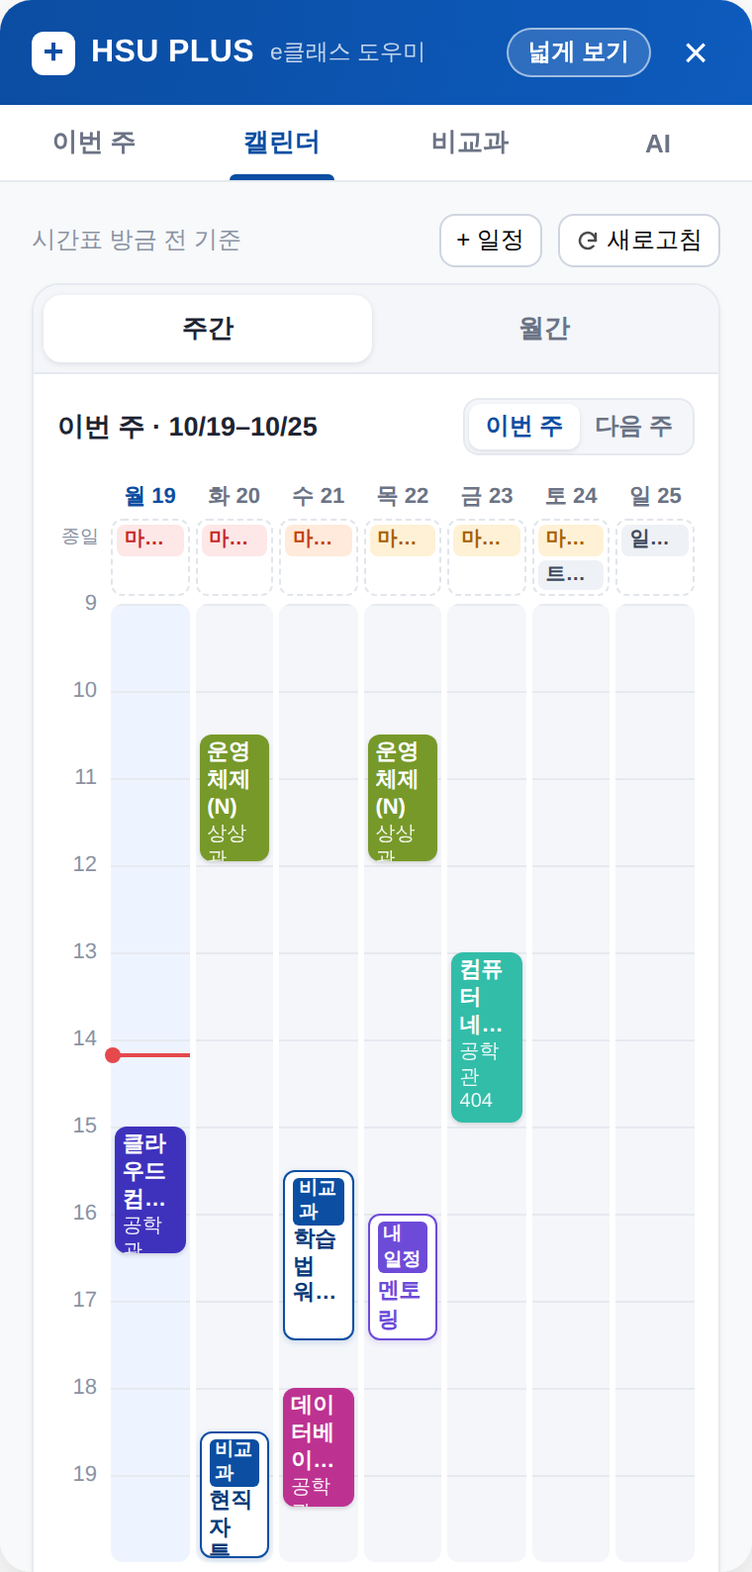
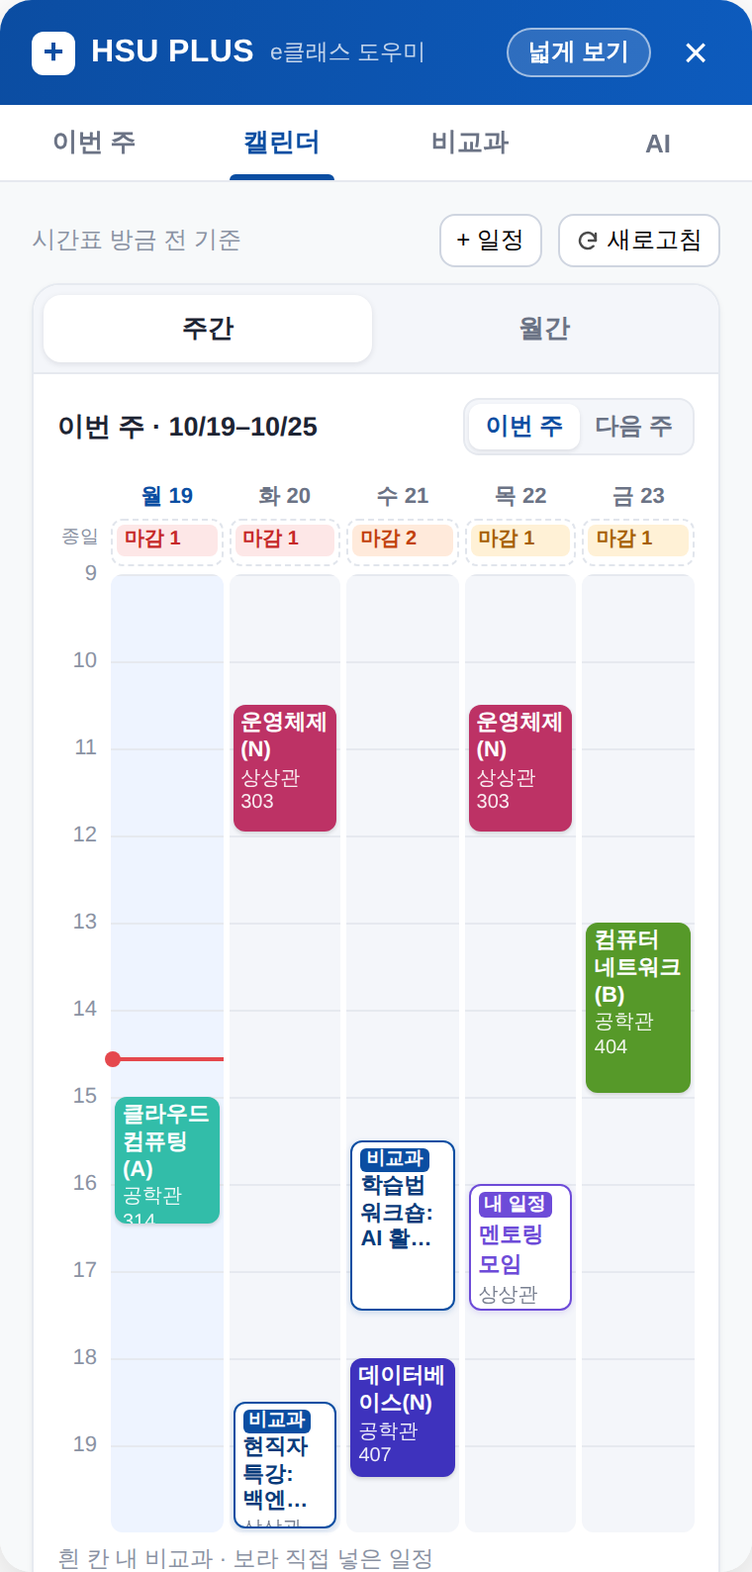
매주 반복 일정(알바·학원), 주말 자동 펼침, 내 시간표 겹침, 비교과 상세 일정 링크
- 일정 넣기 "매주 반복": 요일·시각·기간, 주간 캘린더에 수업처럼 표시
- 토·일에 반복 일정이 있으면 주간 캘린더 토·일 기본 펼침 (학사일정 기간은 자동 펼침에서 제외)
- 신청 탭 겹침 = 수업 + 매주 반복 일정 ("내 시간표"), AI "비는 시간"도 반영
- .ics·구글 캘린더에 반복 규칙
- 비교과 카드·그날 목록에 "상세 일정 확인" 링크, 자동 분류 안내 문구
- 0.3.1

diff --git a/content/main.js b/content/main.js
@@ -330,6 +330,9 @@
    * "2026-2학기 집단상담 프로그램" → "집단상담", "[재맞고]26-2학기 AI 실무…" → "AI 실무…", "2026학년도 2학기 학습법 워크숍" → "학습법 워크숍"
    * 학기·연도 머리말, 맨 앞 [머리표], 끝의 "프로그램"만 뗀다. 원래 이름은 마우스를 올리거나 그날 목록에서 보인다.
    */
+  // 비교과 일정은 자동 분류라 완벽하지 않음 → 학교 상세 화면 바로가기 (10/20 사용자)
+  const detailLink = (url) =>
+    url ? el("a", { class: "detail-link", href: url, target: "_blank", rel: "noopener", title: "일정 분류는 자동이라 틀릴 수 있어요. 정확한 일정은 학교 상세 화면에서 확인하세요.", text: "상세 일정 확인 ↗" }) : null;
   function shortTitle(t) {
     const orig = String(t || "").trim();
     let s = orig.replace(/^(\[[^\]]{1,12}\]\s*)+/, "");
@@ -392,8 +395,33 @@
   }
   const eventList = () =>
     Object.entries(events)
-      .map(([id, ev]) => ({ id, ev, tm: evTime(ev) }))
+      .map(([id, ev]) => ({ id, ev, tm: ev.w ? null : evTime(ev) }))
       .filter((x) => x.tm);
+  // 매주 반복 일정 (알바·학원 등, 10/20): { t, w: [요일 0=일…6=토], s, e, from, until, p, n }
+  const fixedList = () => Object.entries(events).filter(([, ev]) => Array.isArray(ev.w) && ev.w.length && ev.s && ev.e).map(([id, ev]) => ({ id, ev }));
+  /** from~to 안의 매주 반복 일정 회차들 */
+  function fixedOccurrences(from, to) {
+    const out = [];
+    for (const { id, ev } of fixedList()) {
+      for (let d = dayStart(from); d < to; d = addDays(d, 1)) {
+        const key = ymd(d);
+        if (!ev.w.includes(d.getDay()) || (ev.from && key < ev.from) || (ev.until && key > ev.until)) continue;
+        out.push({ kind: "fix", id, ev, title: ev.t, place: ev.p, start: fromYmd(key, ev.s), end: fromYmd(key, ev.e), allDay: false });
+      }
+    }
+    return out;
+  }
+  const BYDAY = ["SU", "MO", "TU", "WE", "TH", "FR", "SA"];
+  /** 매주 반복 → 캘린더 반복 규칙 (구글 링크·.ics) */
+  const fixedRule = (ev) => `FREQ=WEEKLY;BYDAY=${ev.w.map((d) => BYDAY[d]).join(",")}${ev.until ? `;UNTIL=${ev.until.replace(/-/g, "")}T235959` : ""}`;
+  /** 지금 이어지고 있는 매주 반복 일정 → 수업처럼 "매주 이 요일 이 시각"으로 (비교과 겹침 확인용) */
+  function fixedSlots(now = new Date()) {
+    const today = ymd(now);
+    const m = (t) => Number(t.slice(0, 2)) * 60 + Number(t.slice(3, 5));
+    return fixedList()
+      .filter(({ ev }) => !ev.until || ev.until >= today)
+      .flatMap(({ ev }) => ev.w.map((day) => ({ day, from: m(ev.s), to: m(ev.e), name: ev.t })));
+  }
 
   // ---- 내 비교과 회차 (날짜·시각이 정해진 것 + 매주 회차 + 며칠짜리) ----
   // 매주 회차(예: 11/3 10:00 ~ 11/24 13:00, "3시간*4회")는 공개 상세 화면 안내문까지 보고 판단한다 (core/classify.js)
@@ -459,7 +487,7 @@
 
   /** from~to의 캘린더 항목. kind: prog / ev / due (수업은 주간에서 따로) */
   function calItems(from, to) {
-    const out = mySessions(from, to);
+    const out = [...mySessions(from, to), ...fixedOccurrences(from, to)];
     for (const it of deadlines()) {
       const day = dueDay(it.due); // 0시 마감은 전날 24:00
       if (day >= from && day < to) out.push({ kind: "due", it, title: it.title, sub: [DUE_NOUN[it.type], it.course].filter(Boolean).join(" · "), start: dayStart(day), end: dayStart(day), allDay: true, url: it.url, due: it.due });
@@ -548,7 +576,7 @@
       el("ul", { class: "wl-tabs" }, [
         tip("이번 주", "남은 강의·과제·퀴즈·비교과를 마감 순으로. 출석이 어려운 강의도 미리 알려줘요"),
         tip("캘린더", "시간표 + 비교과 + 마감을 주간·월간으로. 톡방 공지 일정은 직접 넣기"),
-        tip("비교과", "신청할 만한 것(수업과 안 겹치는 것만 보기), 졸업 포인트, 안 낸 설문"),
+        tip("비교과", "신청할 만한 것(수업·알바와 안 겹치는 것만 보기), 졸업 포인트, 안 낸 설문"),
         tip("AI", "\"오늘 뭐 해야 돼?\"처럼 물어보면 실제 항목으로 답해요"),
       ]),
       el("p", { class: "wl-note", text: "학생이 만든 프로토타입이에요(학교 공식 서비스 아님). 학교 사이트는 읽기만 하고 신청·제출은 하지 않아요. 성적·연락처는 읽지 않아요." }),
@@ -636,7 +664,7 @@
 
   function openEventForm(init = {}) {
     const today = ymd(new Date());
-    evDraft = { mode: "time", t: "", d: calDay || today, m: (calDay || today).slice(0, 7), s: "10:00", e: "11:00", p: "", n: "", g: null, ...init };
+    evDraft = { mode: "time", t: "", d: calDay || today, m: (calDay || today).slice(0, 7), s: "10:00", e: "11:00", p: "", n: "", g: null, w: [], from: today, until: "", ...init };
     if (current !== "calendar") {
       current = "calendar";
       renderTabs();
@@ -647,7 +675,8 @@
   function editEvent(id) {
     const ev = events[id];
     if (!ev) return;
-    openEventForm({ id, mode: ev.s ? "time" : ev.d ? "date" : "month", t: ev.t, d: ev.d || ymd(new Date()), m: ev.m || (ev.d || ymd(new Date())).slice(0, 7), s: ev.s || "10:00", e: ev.e || "", p: ev.p || "", n: ev.n || "", g: ev.g || null });
+    const today = ymd(new Date());
+    openEventForm({ id, mode: ev.w ? "weekly" : ev.s ? "time" : ev.d ? "date" : "month", t: ev.t, d: ev.d || today, m: ev.m || (ev.d || today).slice(0, 7), s: ev.s || "10:00", e: ev.e || "", p: ev.p || "", n: ev.n || "", g: ev.g || null, w: ev.w ? [...ev.w] : [], from: ev.from || today, until: ev.until || "" });
   }
 
   function eventForm() {
@@ -672,6 +701,28 @@
     const save = () => {
       const t = (f.t || "").trim().slice(0, 60);
       if (!t) return (err.textContent = "제목을 적어 주세요.");
+      if (f.mode === "weekly") {
+        // 매주 반복 (알바·학원 등 고정 일정)
+        if (!f.w.length) return (err.textContent = "요일을 하나 이상 골라 주세요.");
+        if (!/^\d{2}:\d{2}$/.test(f.s || "") || !/^\d{2}:\d{2}$/.test(f.e || "")) return (err.textContent = "시작·끝 시각을 골라 주세요.");
+        if (f.e <= f.s) return (err.textContent = "끝 시각이 시작보다 늦어야 해요.");
+        if (f.until && f.until < (f.from || "")) return (err.textContent = "끝나는 날이 시작하는 날보다 늦어야 해요.");
+        saveEvent(f.id || newId(), {
+          t,
+          w: [...f.w].sort(),
+          s: f.s,
+          e: f.e,
+          from: /^\d{4}-\d{2}-\d{2}$/.test(f.from || "") ? f.from : null,
+          until: /^\d{4}-\d{2}-\d{2}$/.test(f.until || "") ? f.until : null,
+          p: (f.p || "").trim().slice(0, 40) || null,
+          n: (f.n || "").trim().slice(0, 120) || null,
+          at: events[f.id]?.at || Date.now(),
+        });
+        evDraft = null;
+        if (f.w.some((d) => d === 0 || d === 6)) calWeekendOpen = null; // 주말 고정 일정이면 자동 펼침이 다시 판단하게
+        calMode = "week";
+        return renderCalendar();
+      }
       if (f.mode !== "month" && !/^\d{4}-\d{2}-\d{2}$/.test(f.d || "")) return (err.textContent = "날짜를 골라 주세요.");
       if (f.mode === "month" && !/^\d{4}-\d{2}$/.test(f.m || "")) return (err.textContent = "달을 골라 주세요.");
       if (f.mode === "time" && !/^\d{2}:\d{2}$/.test(f.s || "")) return (err.textContent = "시작 시각을 골라 주세요.");
@@ -694,12 +745,37 @@
     };
     return el("div", { class: "ev-form" }, [
       el("div", { class: "ev-head" }, [el("b", { text: f.id ? "일정 고치기" : "일정 직접 넣기" }), el("span", { class: "ev-hint", text: "이 계정의 크롬 어디서나 보여요" })]),
-      field("제목", inp("t", { class: "ev-input ev-title", maxlength: "60", placeholder: "예: 진로멘토링 2회차" })),
-      el("div", { class: "ev-modes" }, [el("div", { class: "seg-mini-wrap" }, [modeBtn("time", "날짜·시각"), modeBtn("date", "날짜만"), modeBtn("month", "대략 (그 달 중)")])]),
-      f.mode === "month"
-        ? field("달", inp("m", { type: "month" }))
-        : field("날짜", inp("d", { type: "date" })),
-      f.mode === "time" ? el("div", { class: "ev-row" }, [field("시작", inp("s", { type: "time" })), field("끝 (선택)", inp("e", { type: "time" }))]) : null,
+      field("제목", inp("t", { class: "ev-input ev-title", maxlength: "60", placeholder: f.mode === "weekly" ? "예: 카페 알바, 영어 학원" : "예: 진로멘토링 2회차" })),
+      el("div", { class: "ev-modes" }, [el("div", { class: "seg-mini-wrap" }, [modeBtn("time", "날짜·시각"), modeBtn("date", "날짜만"), modeBtn("month", "대략 (그 달 중)"), modeBtn("weekly", "매주 반복")])]),
+      ...(f.mode === "weekly"
+        ? [
+            el("p", { class: "ev-sub", text: "알바·학원처럼 매주 같은 시간에 있는 일정. 주간 캘린더에 수업처럼 보이고, 비교과를 고를 때 겹치는지도 함께 봐요." }),
+            el("div", { class: "ev-field" }, [
+              el("span", { text: "요일" }),
+              el(
+                "div",
+                { class: "wd-pick" },
+                [1, 2, 3, 4, 5, 6, 0].map((d) =>
+                  el("button", {
+                    type: "button",
+                    class: f.w.includes(d) ? "wd on" : "wd",
+                    "aria-pressed": String(f.w.includes(d)),
+                    text: DAY[d],
+                    onclick: () => {
+                      f.w = f.w.includes(d) ? f.w.filter((x) => x !== d) : [...f.w, d];
+                      renderCalendar();
+                    },
+                  })
+                )
+              ),
+            ]),
+            el("div", { class: "ev-row" }, [field("시작", inp("s", { type: "time" })), field("끝", inp("e", { type: "time" }))]),
+            el("div", { class: "ev-row" }, [field("언제부터", inp("from", { type: "date" })), field("언제까지 (선택)", inp("until", { type: "date" }))]),
+          ]
+        : [
+            f.mode === "month" ? field("달", inp("m", { type: "month" })) : field("날짜", inp("d", { type: "date" })),
+            f.mode === "time" ? el("div", { class: "ev-row" }, [field("시작", inp("s", { type: "time" })), field("끝 (선택)", inp("e", { type: "time" }))]) : null,
+          ]),
       field("장소 (선택)", inp("p", { maxlength: "40", placeholder: "예: 상상관 B101, 온라인" })),
       field("메모 (선택)", inp("n", { maxlength: "120", placeholder: "예: 톡방 공지, 준비물" })),
       err,
@@ -736,18 +812,23 @@
     if (!CAL) return null;
     const title = x.kind === "due" ? `[마감] ${x.title}` : x.kind === "prog" ? `${x.title}${x.session ? ` - ${x.session}` : ""}` : x.title;
     const ev = x.kind === "due" ? { title, start: new Date(new Date(x.due).getTime() - 30 * 60000), end: new Date(x.due), url: x.url } : { title, start: x.start, end: x.end, allDay: x.allDay, place: x.place, url: x.url, memo: x.ev?.n };
+    if (x.kind === "fix") ev.rrule = fixedRule(x.ev);
     return el("a", { class: "gcal", href: CAL.googleLink(ev), target: "_blank", rel: "noopener", title: "구글 캘린더에 이 일정을 미리 채운 화면이 열려요 (저장은 직접)", text: "구글 캘린더에 추가" });
   }
   function dayRow(x) {
     const when = x.allDay ? (sameDay(x.start, x.end) ? "종일" : `${dayLabel(x.start)}~${dayLabel(x.end)}`) : `${hm(x.start)}–${hm(x.end)}`;
-    const kindLabel = { prog: x.weekly ? "비교과 · 매주" : "비교과", ev: "내 일정", due: "마감", class: "수업", acad: "학사" }[x.kind];
+    const kindLabel = { prog: x.weekly ? "비교과 · 매주" : "비교과", ev: "내 일정", fix: "매주", due: "마감", class: "수업", acad: "학사" }[x.kind];
     const sub = x.kind === "due" ? `${x.sub} · ${dueText(x.due)}` : [x.session, x.place, x.kind === "ev" ? x.ev?.n : null].filter(Boolean).join(" · ");
     return el("div", { class: `day-row k-${x.kind}` }, [
       el("span", { class: "dr-when", text: x.kind === "due" ? endLabel(x.due).replace(/^.*\) /, "") : when }),
       el("div", { class: "info" }, [
         el("div", { class: "name" }, [el("span", { class: `dr-kind k-${x.kind}`, text: kindLabel }), x.url ? el("a", { href: x.url, target: "_blank", rel: "noopener", text: x.title }) : el("span", { text: x.title })]),
         sub ? el("div", { class: "sub", text: sub }) : null,
-        el("div", { class: "dr-acts" }, [gcalFor(x), x.kind === "ev" ? el("button", { class: "linkish", text: "고치기", onclick: () => editEvent(x.id) }) : null]),
+        el("div", { class: "dr-acts" }, [
+          gcalFor(x),
+          x.kind === "ev" || x.kind === "fix" ? el("button", { class: "linkish", text: "고치기", onclick: () => editEvent(x.id) }) : null,
+          x.kind === "prog" ? detailLink(x.url) : null,
+        ]),
       ]),
     ]);
   }
@@ -793,6 +874,13 @@
       list.push({ uid: `due-${String(it.id).replace(/[^\w-]/g, "").slice(-40)}`, title: `[마감] ${it.title}${it.course ? ` (${it.course})` : ""}`, start: new Date(d.getTime() - 30 * 60000), end: d, url: it.url });
     }
     for (const { id, ev, tm } of eventList()) if (!tm.rough) list.push({ uid: `ev-${id}`, title: ev.t, start: tm.start, end: tm.end, allDay: tm.allDay, place: ev.p, memo: ev.n });
+    // 매주 반복 일정: 반복 규칙 하나로 (첫 회 = 시작일 이후 첫 해당 요일)
+    for (const { id, ev } of fixedList()) {
+      let d = ev.from ? fromYmd(ev.from) : dayStart(new Date());
+      for (let i = 0; i < 7 && !ev.w.includes(d.getDay()); i++) d = addDays(d, 1);
+      if (ev.until && ymd(d) > ev.until) continue;
+      list.push({ uid: `fix-${id}`, title: ev.t, start: fromYmd(ymd(d), ev.s), end: fromYmd(ymd(d), ev.e), place: ev.p, memo: ev.n, rrule: fixedRule(ev) });
+    }
     if (!list.length) {
       calNote = "내보낼 일정이 없어요.";
       return renderCalendar();
@@ -925,7 +1013,8 @@
     const dayIdx = (d) => (d.getDay() + 6) % 7; // 월=0 … 일=6
     // 주말 자동 펼침은 비교과·직접 넣은 일정만 센다 (일요일 23:59 강의 마감이 흔해서 마감까지 세면 늘 펼쳐짐)
     const weekendAllDay = [5, 6].flatMap((c) => allDayOf(addDays(monday, c), allDay));
-    const weekendCount = timed.filter((x) => x.kind !== "class" && dayIdx(x.start) >= 5).length + weekendAllDay.filter((x) => x.kind !== "due").length;
+    // 학사일정(신청 기간)도 주말에 걸치기만 하는 경우가 많아 세지 않음. 매주 반복 일정(알바·학원)이 주말에 있으면 펼침 (10/20)
+    const weekendCount = timed.filter((x) => x.kind !== "class" && dayIdx(x.start) >= 5).length + weekendAllDay.filter((x) => x.kind !== "due" && x.kind !== "acad").length;
     const weekendDues = weekendAllDay.filter((x) => x.kind === "due").length;
     const weekendOpen = calWeekendOpen ?? weekendCount > 0;
     const cols = [0, 1, 2, 3, 4].concat(weekendOpen ? [5, 6] : []);
@@ -1009,18 +1098,18 @@
         const endMin = sameDay(s, e) ? minutesOf(e) : maxH * 60;
         const top = ((minutesOf(s) - minH * 60) / 60) * HOUR_PX;
         const height = Math.max(((endMin - minutesOf(s)) / 60) * HOUR_PX, 18);
-        const tag = x.kind === "prog" ? (x.weekly ? "비교과 · 매주" : "비교과") : x.kind === "ev" ? "내 일정" : null;
+        const tag = x.kind === "prog" ? (x.weekly ? "비교과 · 매주" : "비교과") : x.kind === "ev" ? "내 일정" : x.kind === "fix" ? "매주" : null;
         const tip = `${tag ? `[${tag}] ` : ""}${x.title}${x.session ? `\n${x.session}` : ""}\n${hm(s)}–${hm(e)}\n${[x.place, x.professor].filter(Boolean).join(" · ")}`;
         const isLink = x.kind === "prog" && x.url;
         const block = el(
-          isLink ? "a" : x.kind === "ev" ? "button" : "div",
+          isLink ? "a" : x.kind === "ev" || x.kind === "fix" ? "button" : "div",
           {
             class: ["tt-block", x.kind === "class" ? "" : x.kind, e < now ? "past" : ""].filter(Boolean).join(" "),
             title: tip,
             href: isLink ? x.url : null,
             target: isLink ? "_blank" : null,
             rel: isLink ? "noopener" : null,
-            onclick: x.kind === "ev" ? () => editEvent(x.id) : null,
+            onclick: x.kind === "ev" || x.kind === "fix" ? () => editEvent(x.id) : null,
           },
           [tag ? el("div", { class: "tt-tag", text: tag }) : null, el("div", { class: "tt-name", text: x.kind === "class" ? x.title : shortTitle(x.title) }), x.place ? el("div", { class: "tt-place", text: x.place }) : null]
         );
@@ -1044,7 +1133,7 @@
     parts.push(grid);
     parts.push(
       el("div", { class: "cal-foot" }, [
-        el("span", { class: "tt-legend", text: "흰 칸 내 비교과 · 보라 직접 넣은 일정 · 요일을 누르면 그날 목록" }),
+        el("span", { class: "tt-legend", text: "흰 칸 내 비교과 · 보라 직접 넣은 일정·매주 반복(알바 등) · 요일을 누르면 그날 목록" }),
         el("button", {
         class: "weekend-toggle",
         text: weekendOpen ? "토·일 접기" : `토·일 펼치기${weekendCount || weekendDues ? ` (${[weekendCount ? `일정 ${weekendCount}` : "", weekendDues ? `마감 ${weekendDues}` : ""].filter(Boolean).join(" · ")})` : ""}`,
@@ -1094,7 +1183,7 @@
           })
         : null,
     ]);
-    const items = calItems(gridStart, gridEnd);
+    const items = calItems(gridStart, gridEnd).filter((x) => x.kind !== "fix"); // 매주 반복 일정은 수업처럼 주간에서만
     const parts = [sub];
     // 대략 일정 ("11월 중")
     const rough = eventList().filter((x) => x.tm.rough && x.ev.m === key);
@@ -1919,6 +2008,7 @@
     parts.push(secTitle("시작 대기", g.wait.length), g.wait.length ? rows(g.wait.map(myProgramCard)) : placeholder("시작을 기다리는 비교과가 없어요."));
     parts.push(secTitle("진행 중", g.progress.length), g.progress.length ? rows(g.progress.map(myProgramCard)) : placeholder("진행 중인 비교과가 없어요."));
     if (g.online.length) parts.push(secTitle("온라인", g.online.length, "기간 안에 참여"), rows(g.online.map(onlineRow)));
+    parts.push(el("p", { class: "ap-foot", text: "일정(매주·기간 등)은 자동으로 정리한 것이라 틀릴 수 있어요. 카드를 누르면 학교 상세 화면이 열리니 정확한 일정은 거기서 확인하세요." }));
     return parts;
   }
 
@@ -2055,7 +2145,8 @@
   const progOpen = new Set(); // 회차를 펼친 비교과 번호
   const WD = ["일", "월", "화", "수", "목", "금", "토"];
 
-  const slotsNow = () => (CAL && week?.ok ? CAL.weeklySlots(week.items) : []);
+  // 내 시간표 = 수업 + 매주 반복 일정(알바·학원 등, 10/20)
+  const slotsNow = () => (CAL ? [...(week?.ok ? CAL.weeklySlots(week.items) : []), ...fixedSlots()] : []);
   /** 회차 하나의 수업 겹침: 겹치는 수업 이름들 */
   function sessionClash(s, slots) {
     if (!CAL || !slots.length) return [];
@@ -2132,7 +2223,7 @@
     if (info?.r.online && cat !== "online") tags.push(el("span", { class: "ap-tag", text: "온라인" }));
     const pn = info && pickNote(info);
     if (pn) tags.push(el("span", { class: "ap-tag", text: pn }));
-    if (info?.clashN) tags.push(el("span", { class: "ap-tag clash", text: info.free ? `수업과 겹치는 회차 ${info.clashN}` : "수업과 겹침" }));
+    if (info?.clashN) tags.push(el("span", { class: "ap-tag clash", title: "내 시간표 = 수업 + 매주 반복 일정(알바·학원 등)", text: info.free ? `내 시간표와 겹치는 회차 ${info.clashN}` : "내 시간표와 겹침" }));
     if (info?.minePicked) tags.push(el("span", { class: "ap-tag mine", text: "신청함" }));
 
     const opened = progOpen.has(m.programId);
@@ -2148,9 +2239,9 @@
       ]),
     ]);
     const canAdd = info && ["open", "long_term", "consult"].includes(cat);
-    if ((info && info.sessions.length > 1) || canAdd) {
+    {
       const row = el("div", { class: "ap-actions" }, [
-        info.sessions.length > 1
+        info && info.sessions.length > 1
           ? el("button", {
               class: "linkish",
               text: opened ? "회차 접기" : `회차 ${info.sessions.length}개 보기`,
@@ -2161,6 +2252,8 @@
             })
           : null,
         canAdd ? el("button", { class: "linkish", title: "톡방·문자로 안내받은 일정을 직접 넣어 두면 캘린더에 보여요", text: "일정 직접 넣기", onclick: () => openEventForm({ t: it.title.slice(0, 60), g: m.programId }) }) : null,
+        el("span", { class: "grow" }),
+        detailLink(it.url),
       ]);
       card.appendChild(row);
     }
@@ -2217,11 +2310,11 @@
       )
     );
     const opts = el("div", { class: "ap-opts" }, [
-      el("label", { class: "ap-check", title: week?.ok ? "신청할 수 있는 회차 중 수업과 안 겹치는 게 하나라도 있는 것만" : "시간표를 불러오면 쓸 수 있어요" }, [
+      el("label", { class: "ap-check", title: "신청할 수 있는 회차 중 내 시간표(수업 + 매주 반복 일정)와 안 겹치는 게 하나라도 있는 것만" }, [
         (() => {
           const c = el("input", {
             type: "checkbox",
-            disabled: week?.ok ? null : "",
+            disabled: week?.ok || fixedList().length ? null : "",
             onchange: (e) => {
               progFree = e.target.checked;
               renderPrograms();
@@ -2230,7 +2323,7 @@
           c.checked = progFree;
           return c;
         })(),
-        el("span", { text: "수업과 안 겹치는 것만" }),
+        el("span", { text: "내 시간표와 안 겹치는 것만" }),
       ]),
       el("span", { class: "grow" }),
       el("div", { class: "seg-mini-wrap" }, [
@@ -2251,7 +2344,7 @@
     if (detailProgress) parts.push(el("p", { class: "ap-progress", text: `회차·안내문 확인 중 ${detailProgress.done}/${detailProgress.total} (처음 한 번만 조금 걸려요)` }));
     if (programs.error) parts.push(el("p", { class: "stale", text: "새로 불러오지 못해 예전 데이터를 보여주고 있어요." }));
     if (!list.length) {
-      parts.push(placeholder(progFree ? "조건에 맞는 비교과가 없어요. '수업과 안 겹치는 것만'을 꺼 보세요." : "이 분류의 접수 중 비교과가 없어요."));
+      parts.push(placeholder(progFree ? "조건에 맞는 비교과가 없어요. '내 시간표와 안 겹치는 것만'을 꺼 보세요." : "이 분류의 접수 중 비교과가 없어요."));
       return parts;
     }
     if (progSort === "due") {
@@ -2260,7 +2353,7 @@
       if (soon.length) parts.push(secTitle("1주일 안에 신청 마감", soon.length), rows(soon.map(applyCard)));
       if (later.length) parts.push(secTitle("그 뒤 마감", later.length), rows(later.map(applyCard)));
     } else parts.push(secTitle("포인트 높은 순", list.length), rows(list.map(applyCard)));
-    parts.push(el("p", { class: "ap-foot", text: "분류는 안내문과 회차 시각으로 자동으로 정한 것이라 틀릴 수 있어요. 신청 전에 상세 화면을 꼭 확인하세요." }));
+    parts.push(el("p", { class: "ap-foot", text: "일정 분류(날짜·시각 확정, 매주, 온라인 등)는 안내문과 회차 시각으로 자동으로 정한 것이라 틀릴 수 있어요. 정확한 일정은 카드의 '상세 일정 확인'에서 학교 화면을 꼭 확인하세요." }));
     return parts;
   }
 

diff --git a/content/panel.css b/content/panel.css
@@ -749,3 +749,18 @@ button:focus-visible, a:focus-visible, summary:focus-visible, input:focus-visibl
 .badge.ev { background: var(--ot-ev-bg); color: var(--ot-ev); }
 .badge.acad { background: #eef1f5; color: #3d4a5e; }
 button.ai-pick { width: 100%; font: inherit; text-align: left; cursor: pointer; }
+
+/* ---------- 매주 반복 일정(알바·학원) · 상세 일정 링크 (10/20) ---------- */
+.ev-sub { margin: -2px 0 0; font-size: 11.5px; color: var(--ot-sub); line-height: 1.5; }
+.wd-pick { display: flex; gap: 4px; }
+.wd { flex: 1; min-width: 0; padding: 6px 0; border: 1px solid #cfd5e0; border-radius: 8px; background: #fff; font: inherit; font-size: 12.5px; font-weight: 700; color: var(--ot-sub); cursor: pointer; }
+.wd:hover { border-color: var(--ot-ev); }
+.wd.on { background: var(--ot-ev); border-color: var(--ot-ev); color: #fff; }
+/* 매주 반복 일정 블록: 직접 넣은 일정과 같은 보라, 바탕을 옅게 채워 수업처럼 "고정"으로 보이게 */
+.tt-block.fix { background: var(--ot-ev-bg); color: #4b2fa8; border: 1.5px solid #b9a6ef; text-align: left; font: inherit; font-size: 11px; cursor: pointer; box-shadow: none; }
+.tt-block.fix .tt-tag { background: #8b6be0; }
+.tt-block.fix .tt-place { color: #6c5aa8; }
+.dr-kind.k-fix { background: var(--ot-ev-bg); color: var(--ot-ev); }
+.detail-link { font-size: 11.5px; font-weight: 600; color: var(--ot-primary); text-decoration: none; white-space: nowrap; }
+.detail-link:hover { text-decoration: underline; }
+.ap-actions { align-items: center; }

diff --git a/docs/DEVLOG.md b/docs/DEVLOG.md
@@ -187,3 +187,10 @@
   - 학교 서버 부담 측정(가짜 데이터): 처음 열기 e클래스 24 + 비교과 32 + 종합정보 3 + 홈페이지 1, 캐시가 살아 있을 때 다시 열기 2 → SITE-NOTES에 계산 방식 정리
   - 강의실 표시는 사용자가 정한 hsu-ecx 배치 그대로 둠(색 규칙 이미 같음)
   - 문서: SITE-NOTES(공개 상세 화면, 포인트 내역, 학사일정, 서버 부담), README(주요 기능, 설치 5단계), docs/TESTING.md(친구용 설치·테스트 안내와 질문 5개), manifest 0.3.0, 테스터용 zip(확장 파일만)
+- **매주 반복 일정(알바·학원) + 비교과 상세 일정 링크 (10/20)**
+  - 일정 넣기에 "매주 반복": 요일(여러 개), 시작·끝 시각, 언제부터·언제까지(선택), 장소·메모. 내 설정(sync)에 저장
+  - 주간 캘린더에 수업처럼 매주 칸(옅은 보라, "매주" 표시, 누르면 고치기). 월간에는 수업처럼 넣지 않음
+  - 토·일에 반복 일정이 있으면 주간 캘린더가 기본으로 토·일을 펼침. 없으면 기존 그대로(평일만, 주말 비교과·직접 일정이 있을 때만 펼침). 학사일정 신청 기간은 주말에 걸치기만 하는 경우가 많아 자동 펼침에서 뺌
+  - 비교과 신청 탭의 겹침 = "내 시간표"(수업 + 매주 반복 일정). 회차마다 "겹침: 카페 알바"처럼, 체크 "내 시간표와 안 겹치는 것만". AI "비는 시간" 답도 같이 반영
+  - .ics 내보내기·구글 캘린더 추가에 반복 규칙(매주 요일, 끝나는 날)
+  - (사용자) 비교과 일정 분류는 완벽하지 않으니 링크로 확인하게: 신청 탭 카드마다 "상세 일정 확인 ↗"(학교 상세 화면), 캘린더 그날 목록의 비교과에도, 신청·내 비교과 아래 안내 문구

diff --git a/docs/TESTING.md b/docs/TESTING.md
@@ -1,10 +1,10 @@
-# HSU PLUS 사용 테스트 안내 (친구용, 0.3.0)
+# HSU PLUS 사용 테스트 안내 (친구용, 0.3.1)
 
 > 학생이 만든 프로토타입이에요. 학교 공식 서비스가 아니에요.
 > 학교 사이트는 **읽기만** 하고, 신청·제출은 하지 않아요. 비밀번호를 저장하지 않고, 성적·연락처는 읽지 않아요.
 
 ## 1. 설치 (5분)
-1. 받은 `hsuplus-0.3.0.zip`의 압축을 풀어요. (폴더 안에 `manifest.json`이 보이면 맞아요)
+1. 받은 `hsuplus-0.3.1.zip`의 압축을 풀어요. (폴더 안에 `manifest.json`이 보이면 맞아요)
 2. 크롬 주소창에 `chrome://extensions` → 오른쪽 위 **개발자 모드** 켜기
 3. **압축해제된 확장 프로그램을 로드합니다** → 1번 폴더 선택
 4. [e클래스](https://learn.hansung.ac.kr)에 로그인 → 메인 화면 오른쪽 가장자리의 **+** 버튼
